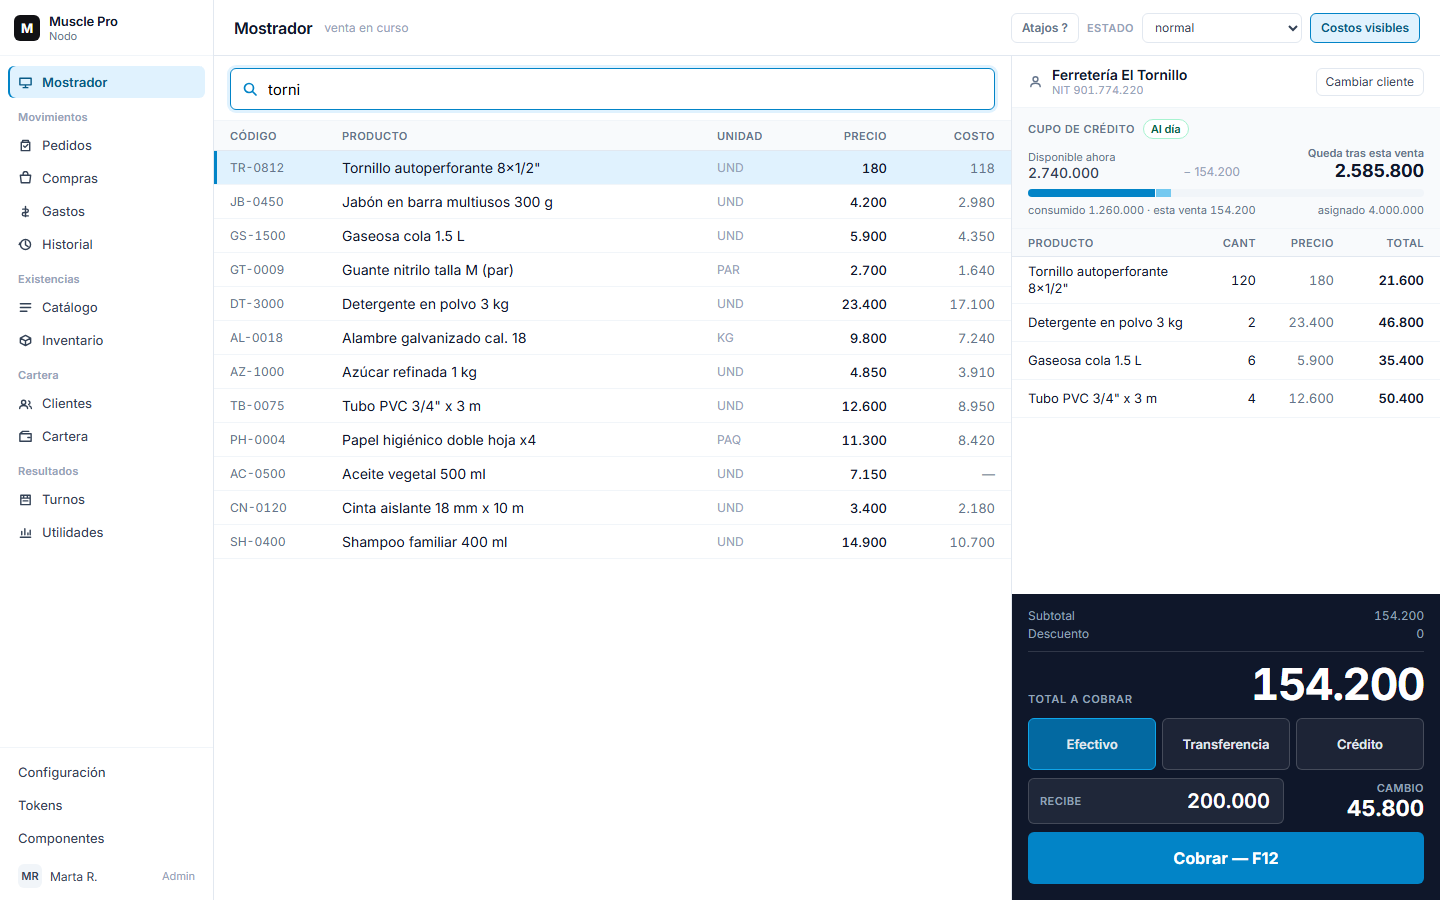
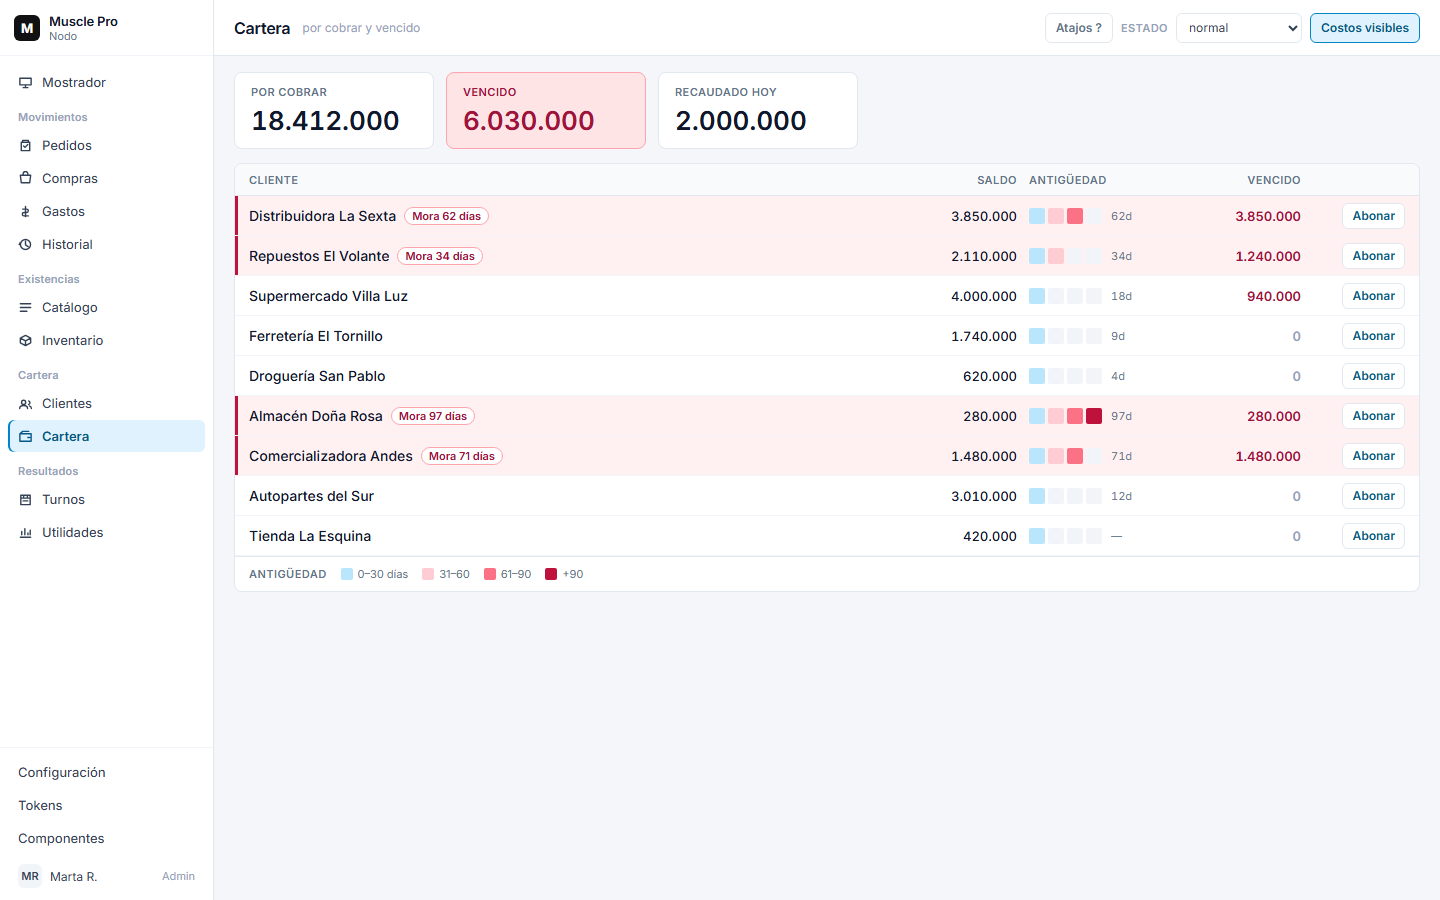
fix(reskin): el rojo que dejo la tanda 1, y el emerald que sobrevivio a la 4
Dos hallazgos de la suite entera y de revisar los pares, no de escribir codigo.

1) 🔴 `reportes.spec` apuntaba a `sidebar-brand-name`, un testid que la tanda 1
   elimino al partir el bloque de identidad en dos lineas. La tanda cerro con
   "tsc + lint + el grupo afectado" y `reportes` no estaba en ese grupo — pero
   el sidebar esta en las once pantallas, asi que el grupo afectado por un
   cambio de sidebar es CUALQUIER spec que lo mire. El recorte del grupo fue
   mio, no del criterio.
   La ASERCION sobrevivio al modelo nuevo (el sidebar sigue teniendo que nombrar
   la sede), asi que no se borro: se re-derivo de la pantalla nueva y ahora
   asevera de mas — el ORDEN, que es la decision que se tomo (§1.1: `--brand` la
   define la organizacion, y el tile se estaba pintando sobre el nombre de la
   sede, que no es la identidad del cliente).
   ✅ Mutante: intercambiados los dos testids, el spec muere nombrando que
      cambio — "la ORGANIZACION va ARRIBA de la sede", 42 donde esperaba < 16.
      Revertido sobre arbol limpio y verificado con `git status`.

2) 🔴 `ProductsPage` tenia DOS botones con fondo `--action` (azul) y halo
   `rgba(16,185,129,.35)` — el emerald de VENTO — mas tres radios fuera de la
   escala del §3 (9, 10, 9). Es la pantalla de la tanda 4, que cerre en verde.
   No lo vio el censo de hexes de las tandas porque un `boxShadow` no es un
   `background`: el barrido migro el color que se ve y dejo el que se irradia.
[…]

diff --git a/tests/reportes.spec.ts b/tests/reportes.spec.ts
@@ -74,9 +74,27 @@ test.describe('Reportes', () => {
     await expect(page.getByTestId('export-stock')).toBeVisible()
   })
 
-  test('el sidebar muestra el nombre del sede', async ({ page }) => {
-    const brand = page.getByTestId('sidebar-brand-name')
-    await expect(brand).toBeVisible()
-    await expect(brand).not.toHaveText('')
+  // 🔴 REESCRITO EN A6 · tanda 1. Este spec apuntaba a `sidebar-brand-name`, un
+  //    testid que dejo de existir cuando el bloque de identidad paso a ser DOS
+  //    lineas: la ORGANIZACION arriba y la SEDE debajo (§1.1 — `--brand` la
+  //    define el tenant, y hasta ahora el tile del cliente se pintaba sobre el
+  //    nombre de la sede, que no es su identidad).
+  //    La ASERCION sobrevivio al cambio de modelo —el sidebar sigue teniendo que
+  //    nombrar la sede— asi que no se borra: se re-deriva de la pantalla nueva.
+  //    Y asevera de mas que antes: el ORDEN, que es la decision que se tomo.
+  test('el sidebar nombra la organizacion arriba y la sede debajo', async ({ page }) => {
+    const org = page.getByTestId('sidebar-org-name')
+    const sede = page.getByTestId('sidebar-sede-name')
+    await expect(org, 'la organizacion es el tenant: va en el bloque de identidad').toBeVisible()
+    await expect(sede, 'y la sede no se pierde: el producto es multi-sede').toBeVisible()
+    await expect(org).not.toHaveText('')
+    await expect(sede).not.toHaveText('')
+
+    // El orden es la mitad que importa y la unica que puede invertirse sin que
+    // nada mas se rompa: con la sede arriba, el tile de marca vuelve a pintarse
+    // sobre un dato que no es la identidad del cliente.
+    const cajaOrg = await org.boundingBox()
+    const cajaSede = await sede.boundingBox()
+    expect(cajaOrg!.y, 'la ORGANIZACION va ARRIBA de la sede').toBeLessThan(cajaSede!.y)
   })
 })

diff --git a/src/pages/ProductsPage.tsx b/src/pages/ProductsPage.tsx
@@ -45,10 +45,9 @@ function EmptyState({ query, onNew }: { query: string; onNew: () => void }) {
         onClick={onNew}
         style={{
           padding: '10px 20px', border: 'none',
-          background: 'var(--action)', borderRadius: 9,
+          background: 'var(--action)', borderRadius: 'var(--r-2)',
           cursor: 'pointer', fontSize: 13, fontWeight: 700, color: 'var(--surface)',
           display: 'inline-flex', alignItems: 'center', gap: 6,
-          boxShadow: '0 6px 16px rgba(16,185,129,.35)',
         }}
       >
         <Plus size={15} /> Crear primer producto
@@ -129,10 +128,9 @@ export function ProductsPage() {
             style={{
               display: 'flex', alignItems: 'center', gap: 7,
               padding: '10px 18px', border: 'none',
-              background: 'var(--action)', borderRadius: 10,
+              background: 'var(--action)', borderRadius: 'var(--r-2)',
               cursor: 'pointer', fontSize: 13.5, fontWeight: 700, color: 'var(--surface)',
-              boxShadow: '0 6px 16px rgba(16,185,129,.35)',
-              flexShrink: 0,
+                  flexShrink: 0,
             }}
           >
             <Plus size={16} strokeWidth={2.5} /> Nuevo producto
@@ -154,7 +152,7 @@ export function ProductsPage() {
           <div style={{
             display: 'flex', alignItems: 'center', gap: 8,
             background: 'var(--surface-2)', border: '1px solid var(--border)',
-            borderRadius: 9, padding: '8px 12px',
+            borderRadius: 'var(--r-2)', padding: '8px 12px',
             marginBottom: 4, flexShrink: 0, width: 220,
           }}>
             <Search size={15} color="var(--ink-4)" />

diff --git a/CLAUDE.md b/CLAUDE.md
@@ -976,6 +976,8 @@ estábamos contando.*
 | una consulta SQL de diagnóstico | vendido vs cobrado por día | el `left join` a `payments` **multiplicaba `o.total`** por cada pago: una venta mixta contaba doble | **un número no cerró con otro ya conocido**: 165 órdenes donde la app decía 158 |
 | grepear el FUENTE por un `@keyframes` | si la animación existía | el fuente no ve lo que **Tailwind emite en el build** | **compilando** y grepeando `dist/assets/*.css` |
 | `grep '\?\? new Set\('` en A1 | los `new Set()` como default | no veía `new Set<string>()` — el parámetro de tipo | **el control escrito de antemano**: la 54 TENÍA que aparecer, y dio cero |
+| el script de captura de A6 | la pantalla pedida **de la maqueta** | la que estuviera abierta: `getByText('Historial').last()` tomó un encabezado del panel de Clientes y **nunca navegó** | **mirando la captura**: era una imagen creíble de otra pantalla |
+| el **mismo** script, ya "arreglado" | ídem | ídem: `Cartera` es **título de grupo Y ítem de navegación**, y el primero en orden de DOM es el grupo, que no navega | **mirando la captura**: el par de Cartera mostraba el Mostrador |
 | `grep -cE '^  ok  [0-9]+'` sobre la salida de la suite | cuántos tests pasaron | asumía **dos espacios fijos**; el reporter **alinea el número por ancho**, así que `ok 1`, `ok  99` y `ok 219` no coinciden con el patrón. Contó **89 de 202** | **cruzando**: 89 no cerraba con las 202 del resumen. Con `^  ok +[0-9]+`: 202 + 17 skipped = **219**, el último número de test emitido |
 
 **Los tres daban un número creíble.** Ninguno daba error, ninguno se veía roto, y los tres
@@ -1016,6 +1018,36 @@ nota.
    práctico: al escribir una consulta de diagnóstico, **incluí una columna que ya sepas cuánto
    debe dar** — un conteo, un total del día — aunque no la necesites para la pregunta. Es el
    control negativo de los números.
+
+🔴 **LOS DOS ÚLTIMOS SON EL MISMO INSTRUMENTO, Y ESO ES EL HALLAZGO.** *2026-09-03, tanda 5 de A6.*
+
+> **Un instrumento arreglado con un control que no puede fallar queda peor que antes: ahora falla
+> igual, y con un verde encima.**
+
+La primera vez, la captura de la maqueta navegaba mal y **producía una imagen creíble de otra
+pantalla, sin error**. El arreglo acotó el selector al sidebar y —bien— **agregó un control**: que
+el título dijera lo que se pidió. El control era esto:
+
+```js
+const h = (await page.locator('body').innerText()).slice(0, 200);
+if (!h.includes(def.mock)) console.log('?? el título no confirma', def.mock);
+```
+
+**Los primeros 200 caracteres del `body` son EL SIDEBAR**, y en el sidebar el rótulo pedido está
+**siempre**, se haya navegado o no. El control no podía dar rojo. Dio verde sobre la captura del
+Mostrador rotulada `cartera-normal.png`, y esa captura se usó para cerrar una tanda.
+
+⚠ **Y la segunda causa raíz es la que casi se repite otra vez.** Al arreglar el selector probé
+*«el rótulo que no empieza en el margen»* —el ítem lleva icono, el título de grupo no— y eso dejó
+afuera a **Configuración**, que vive en el pie y tampoco tiene icono. Dos criterios geométricos
+seguidos, los dos plausibles, los dos falsos. **La propiedad que separa un ítem de un rótulo no es
+dónde está: es que NAVEGA.** La versión que quedó prueba los candidatos y se queda con el que hace
+cambiar el título — **el control ELIGE en vez de confirmar**, así que no puede quedar de adorno.
+
+**Lo accionable, y es el corolario de R4 aplicado a los controles:** después de escribir un control,
+**escribí cómo se vería su rojo**. Si la respuesta es "no se me ocurre", el control es decorativo.
+Y si se puede, hacé que el control **decida** en vez de confirmar: un control que elige no se puede
+ignorar.
 
 🔴 **EL CUARTO ES DE OTRA ESPECIE, y por eso vale aparte: el instrumento era UN SCRIPT NUESTRO.**
 Los tres primeros median mal; éste **rompía el archivo**. Y lo relevante es que **había funcionado

diff --git a/docs/auditorias/A6-visual-contra-la-maqueta.md b/docs/auditorias/A6-visual-contra-la-maqueta.md
@@ -48,6 +48,30 @@ control que confirma que el título de la pantalla dice lo que se pidió. Se re-
 ⚠ Y la corrección destapó un hallazgo real: **la pestaña Clientes no es direccionable por URL**
 (`/fiado?tab=customers` se ignora). Hay que hacer clic. Eso es evidencia de **S5**.
 
+### 🔴 Y el mismo instrumento volvió a fallar en la tanda 5 — con el control en verde
+
+*2026-09-03. **Novena falla de instrumento**, y la primera que es una REINCIDENCIA.*
+
+Al cerrar la tanda 5, la captura `maqueta/cartera-normal.png` era **el Mostrador**. La causa: en el
+sidebar, `Cartera` es a la vez **título de grupo** e **ítem de navegación**; los dos caen dentro de
+los 214px, y el primero en orden de DOM es el título, que no navega.
+
+🔴 **Lo grave no es el selector: es que el control agregado en la corrección anterior NO PODÍA DAR
+ROJO.** Miraba los primeros 200 caracteres de `body.innerText`, **que son el sidebar** — donde el
+rótulo pedido está siempre, se haya navegado o no. Un control que da verde con el defecto puesto no
+es un control (corolario de R4), y éste avaló una captura de la pantalla equivocada.
+
+⚠ **La segunda causa raíz casi se repite otra vez.** El arreglo intermedio fue geométrico —*"el
+ítem lleva icono, el título de grupo no, así que el ítem no empieza en el margen"*— y dejó afuera a
+**Configuración**, que vive en el pie y tampoco tiene icono. **La propiedad que separa un ítem de un
+rótulo no es dónde está: es que NAVEGA.** La versión final prueba los candidatos del sidebar y se
+queda con el que hace cambiar el título del área de contenido: **el control elige en vez de
+confirmar**, así que no puede quedar de adorno.
+
+✅ **Alcance de la contaminación, enumerado y no supuesto:** se re-capturaron **las once** pantallas
+de la maqueta con el control nuevo. `Cartera` era la única cuyo rótulo colisiona con un título de
+grupo, y fue la única que cambió. Las diez restantes ya eran correctas.
+
 ### Las clases
 
 | clase | qué es | qué se hace |
